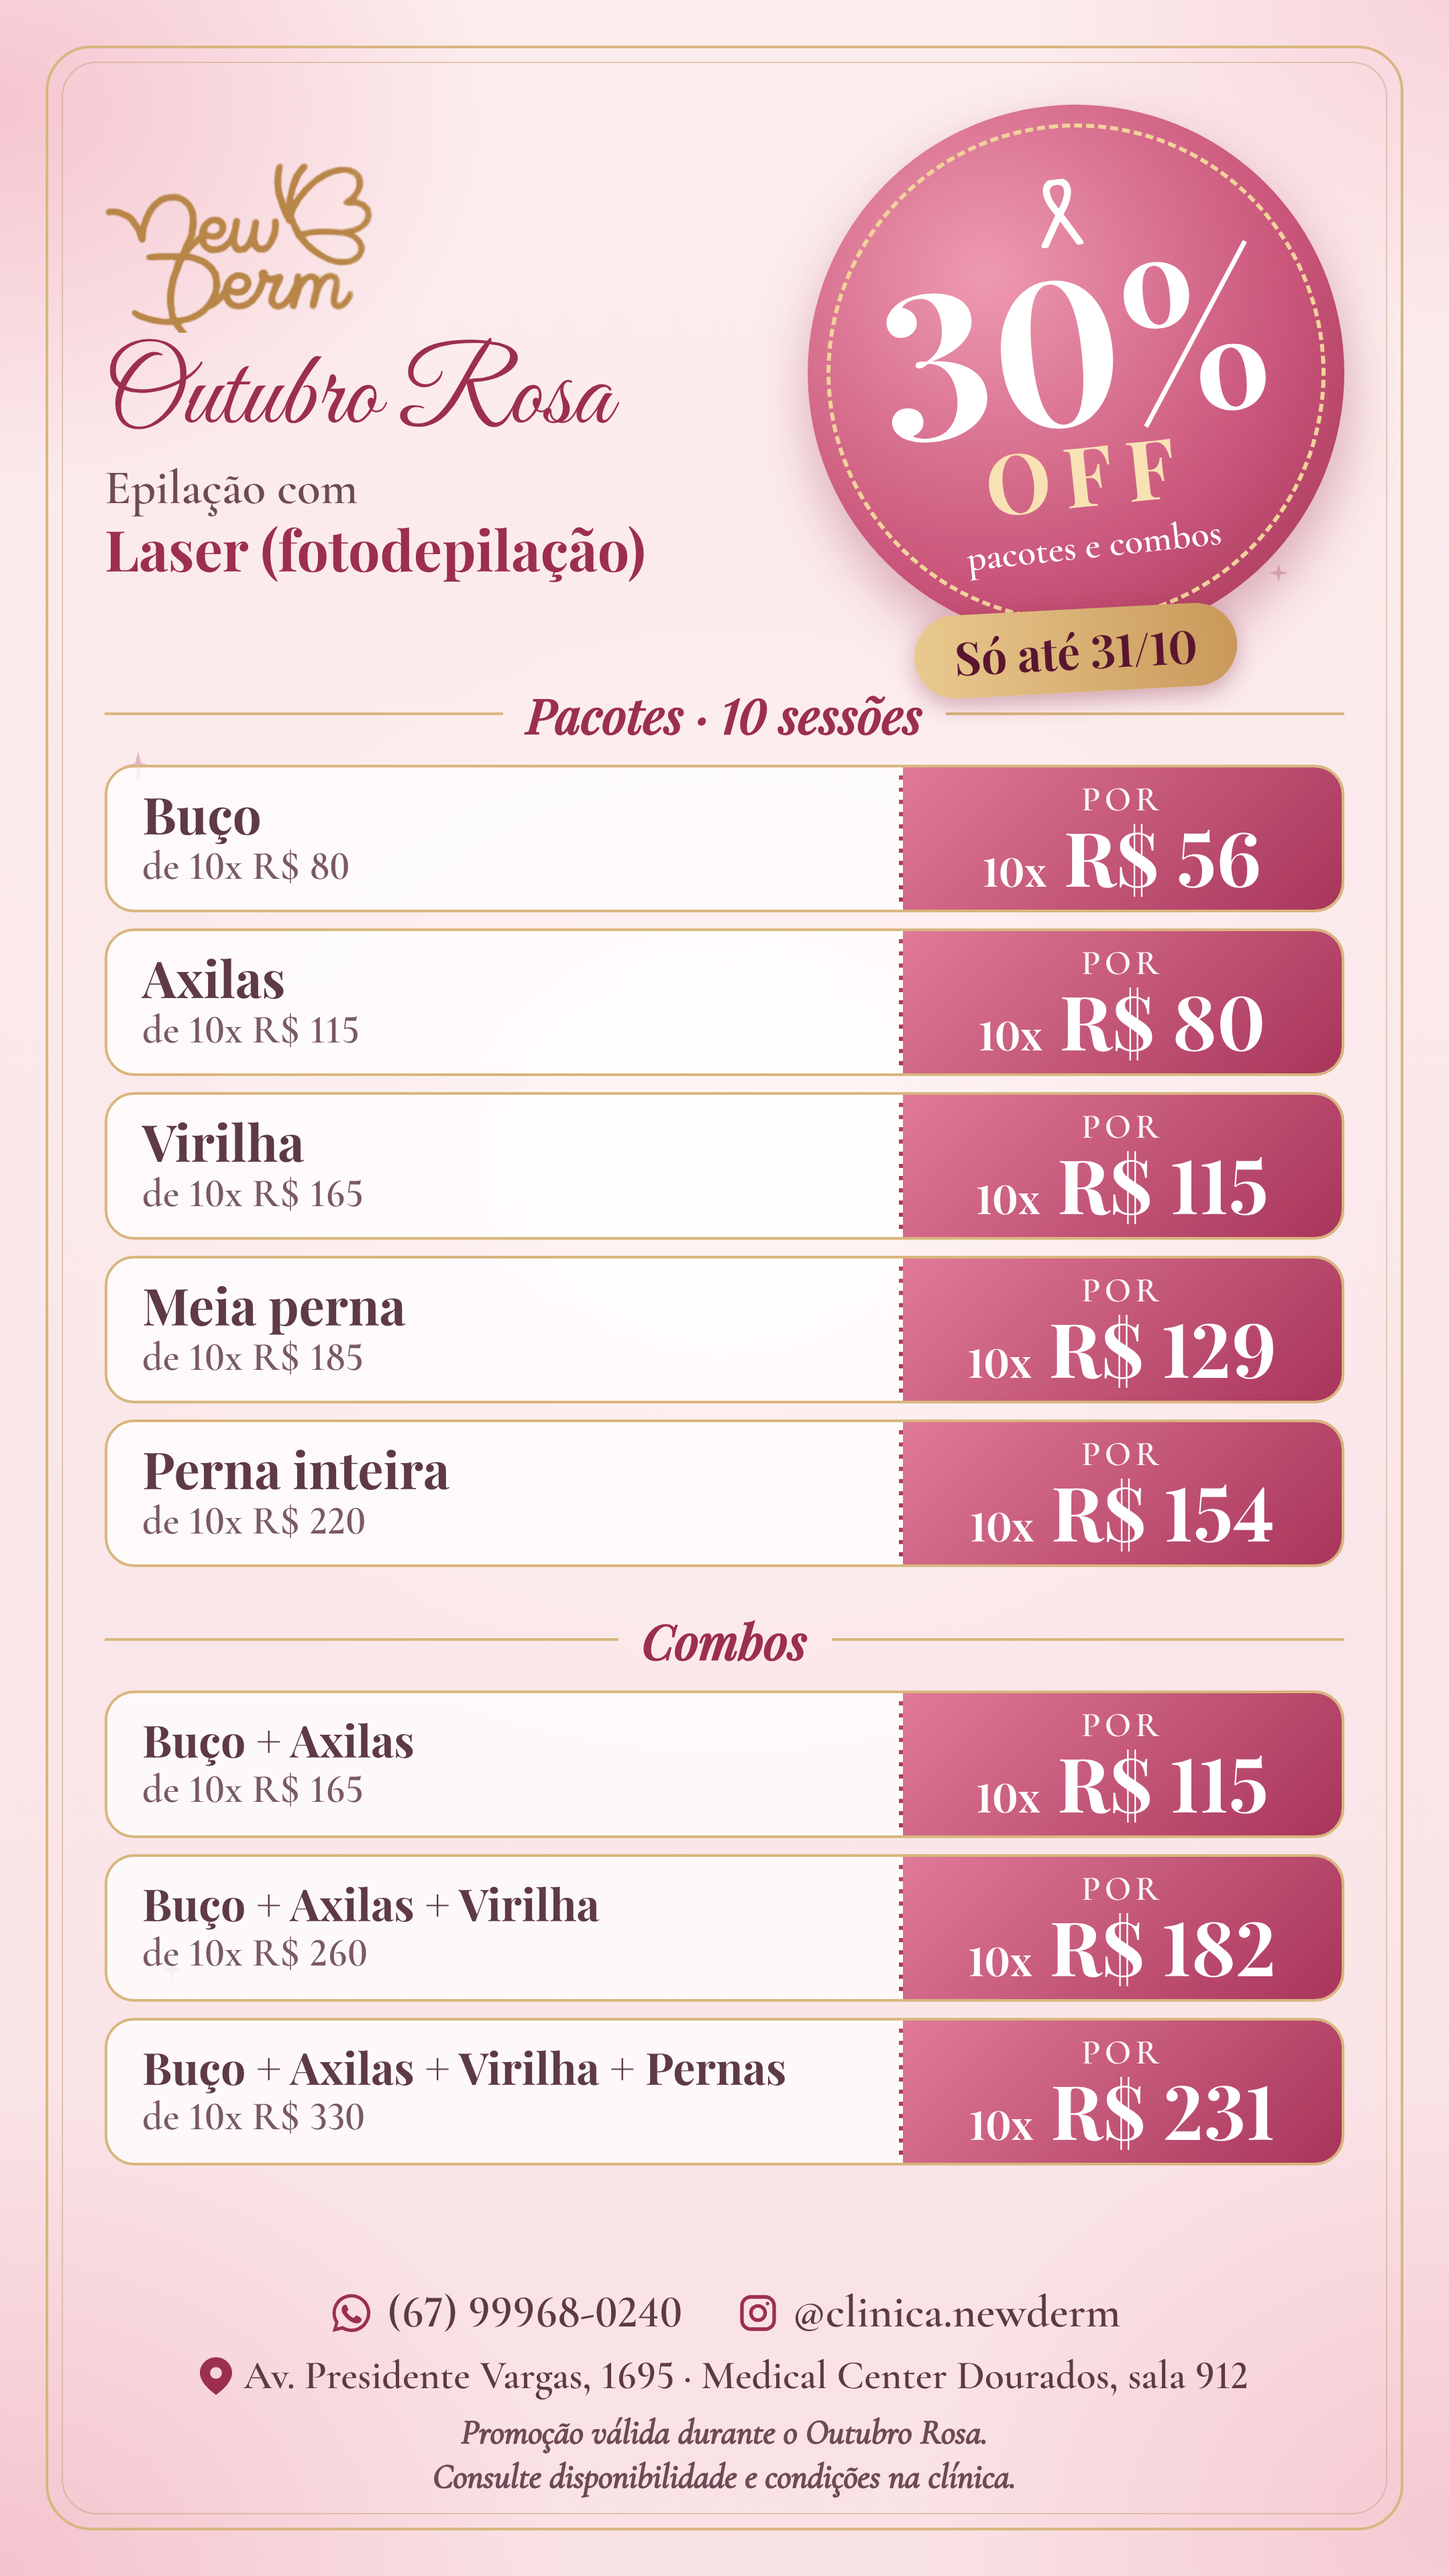
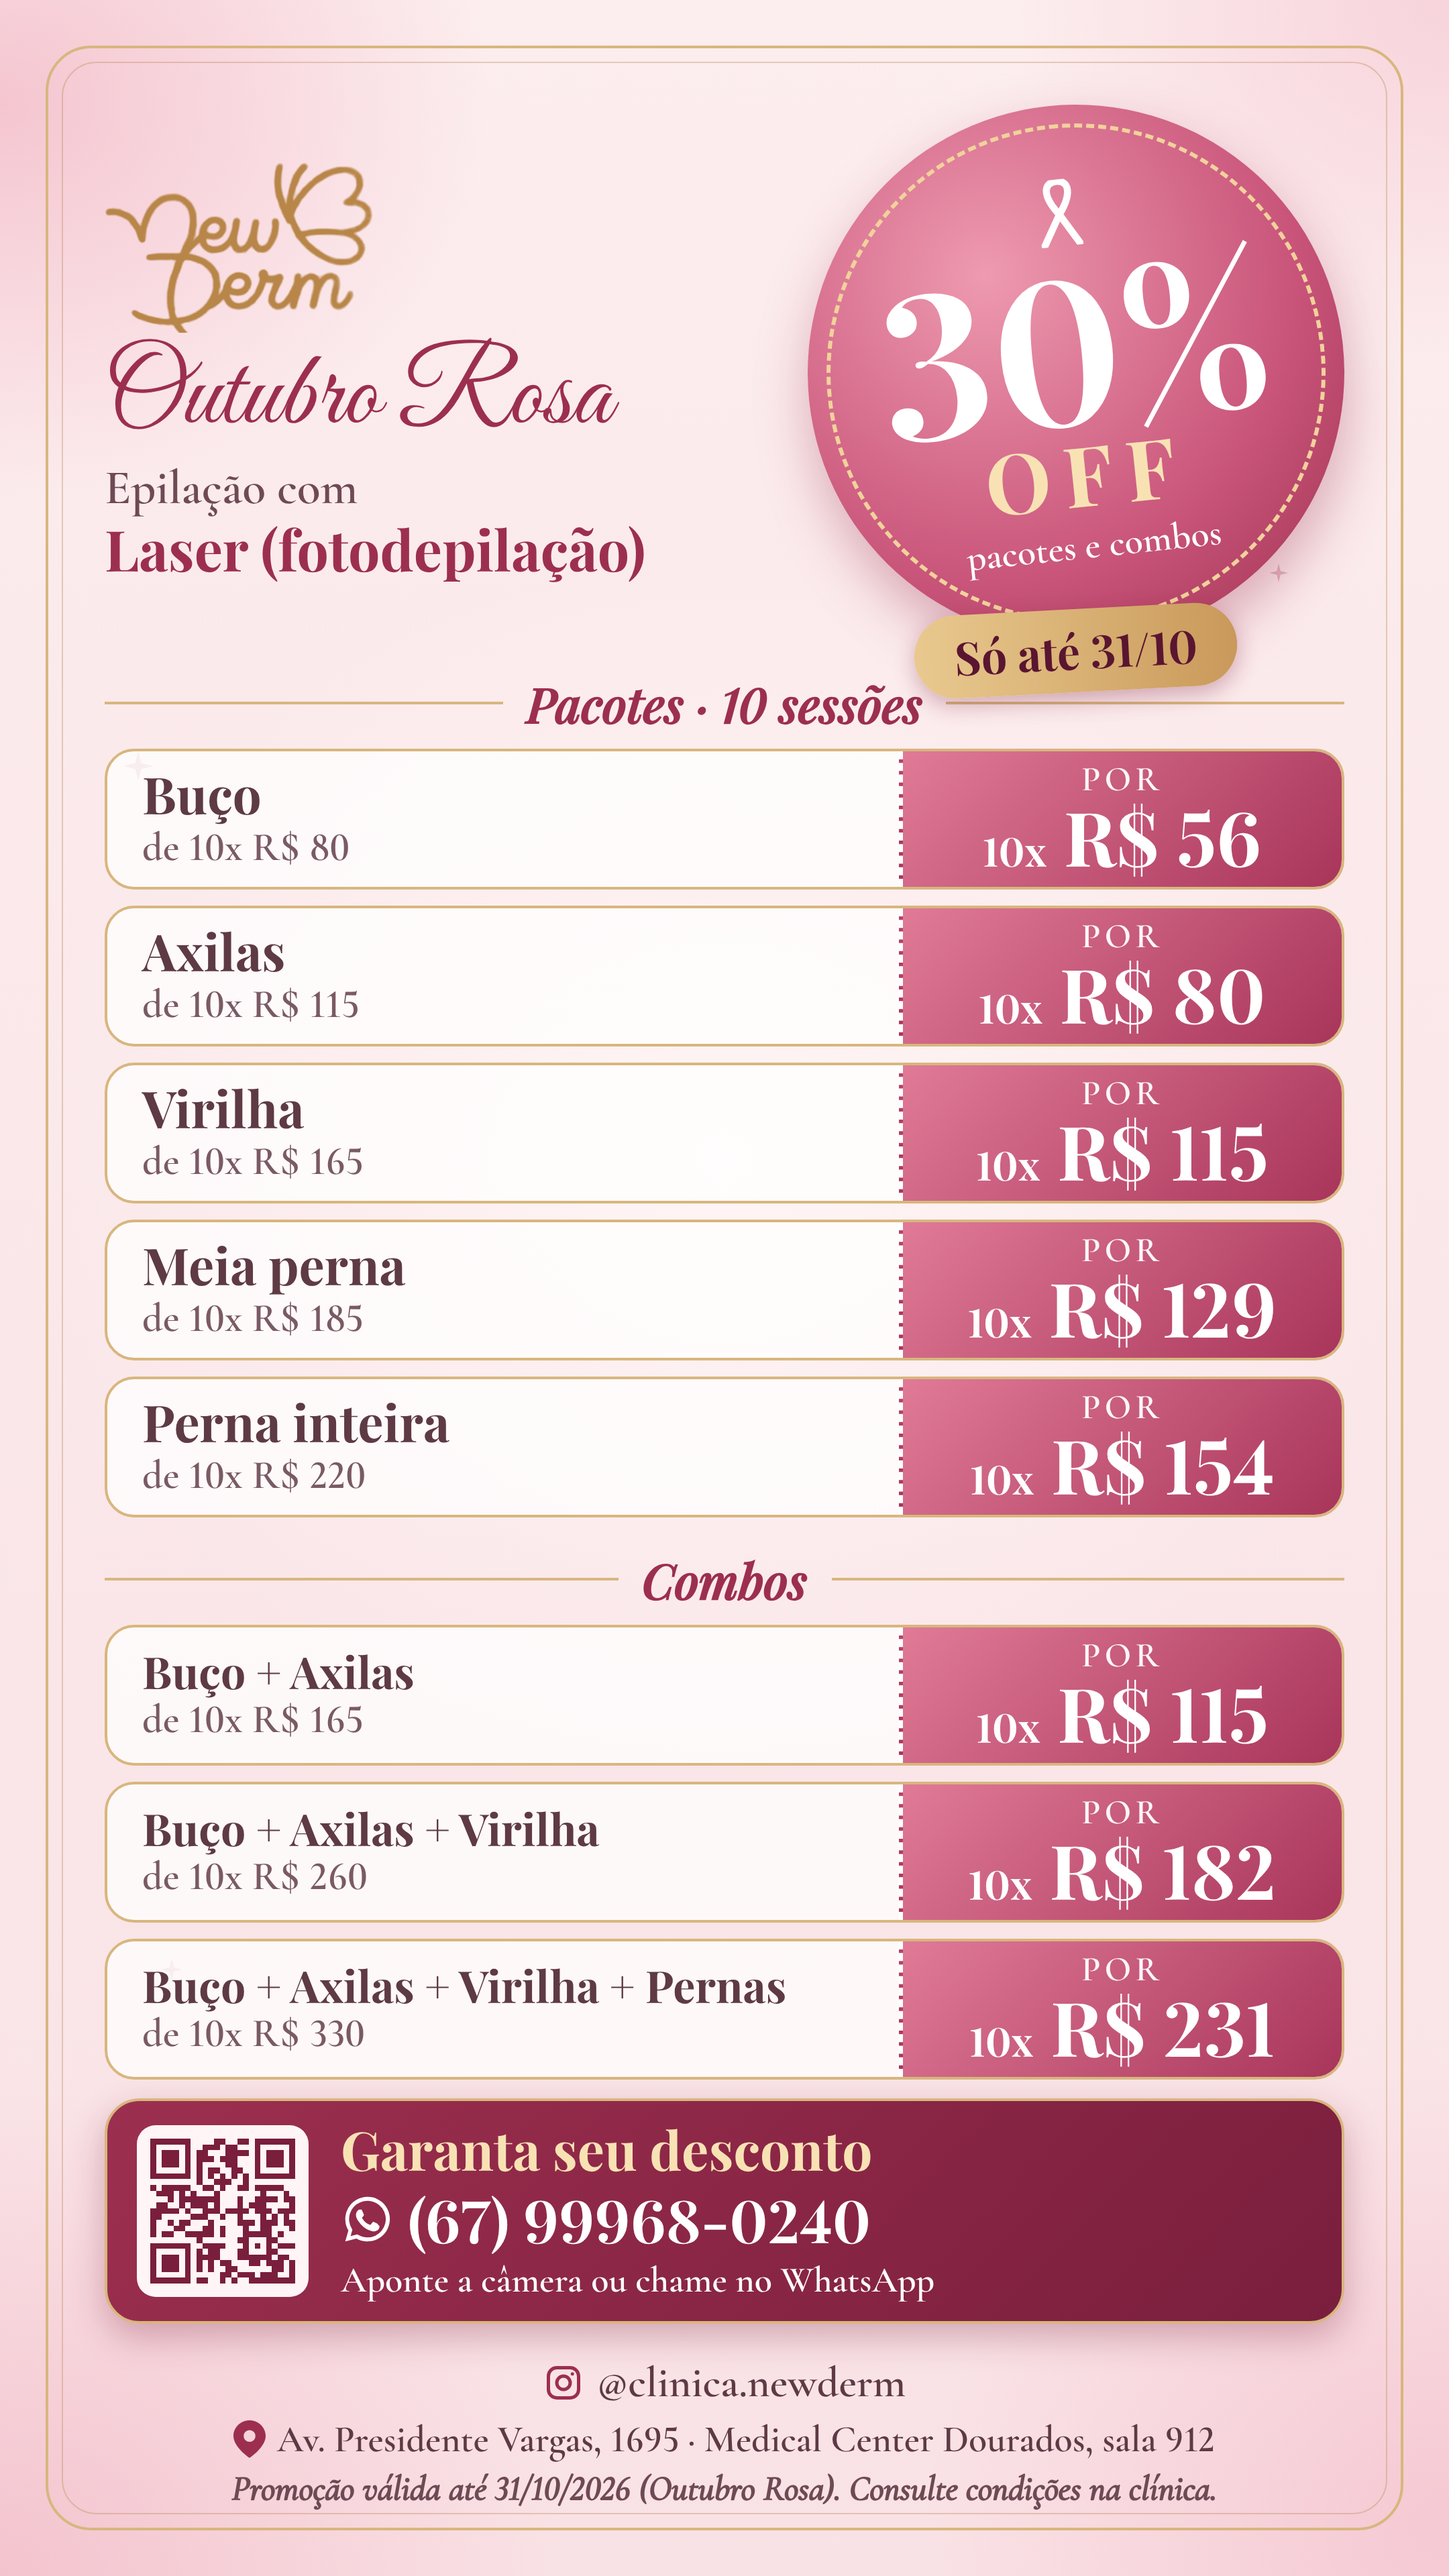
Versão final: adiciona bloco do QR code do WhatsApp e rodapé com validade
Claude-Session: https://claude.ai/code/session_01YCM2u15pHTsNBGbgB1w3ys

Changed region(s): [[0.062, 0.25, 0.9306, 0.9688], [0.4343, 0.5938, 0.5583, 0.6562], [0.3722, 0.25, 0.4653, 0.3125]]

diff --git a/identidade-visual/modelo-tabela/tabela-final-aprovada.html b/identidade-visual/modelo-tabela/tabela-final-aprovada.html
@@ -151,6 +151,22 @@
     background:linear-gradient(90deg,#E9C98F,#C9995A);color:#5A1530;font-family:"Playfair Display";font-weight:700;font-size:34px;box-shadow:0 6px 16px rgba(122,30,61,.3)}
   .to{font-size:30px;color:#7A5A64}
   .chead{margin-bottom:14px} .tk{height:110px;margin-bottom:12px}
+  .ft{position:absolute;left:60px;right:60px;bottom:52px;text-align:center;color:#5E3A45}
+  .ftc{display:flex;justify-content:center;gap:40px;font-size:32px;font-weight:700}
+  .ftc span{display:flex;align-items:center;gap:10px}
+  .fta{display:flex;justify-content:center;align-items:center;gap:8px;font-size:28px;font-weight:600;margin-top:6px}
+  .ftn{font-size:26px;font-weight:600;font-style:italic;margin-top:4px;color:#6E4A55}
+  .ctab{display:flex;align-items:center;gap:24px;margin-top:16px;padding:14px 22px;border-radius:26px;background:linear-gradient(135deg,#9C2F4F,#7A1E3D);border:2px solid var(--gold-l);color:#fff;box-shadow:0 10px 26px rgba(122,30,61,.3)}
+  .ctab .qr{width:128px;height:128px;flex:none;background:#FFF5F6;border-radius:14px;padding:10px}
+  .ctab .qr svg{width:100%;height:100%}
+  .c1t{font-family:"Playfair Display";font-weight:700;font-size:40px;line-height:1.1;color:#F8E2B4}
+  .c2t{display:flex;align-items:center;gap:10px;font-family:"Playfair Display";font-weight:700;font-size:44px}
+  .c3t{font-size:27px;font-weight:600}
+  .ft{bottom:50px}
+  .ctab .qr{width:128px;height:128px;flex:none;background:#FFF5F6;border-radius:14px;padding:10px}
+  .ctab .qr svg{width:100%;height:100%}
+  .tk{height:105px;margin-bottom:12px} .lbl{margin:22px 0 10px}
+  .ctab{margin-top:14px}
 </style>
 </head>
 <body>
@@ -231,14 +247,13 @@
   <div class="tk"><div class="tl"><div class="tn">Buço</div><div class="to">de 10x R$ 80</div></div><div class="tr"><div class="tp">por</div><div class="tv"><small>10x</small> R$ 56</div></div></div><div class="tk"><div class="tl"><div class="tn">Axilas</div><div class="to">de 10x R$ 115</div></div><div class="tr"><div class="tp">por</div><div class="tv"><small>10x</small> R$ 80</div></div></div><div class="tk"><div class="tl"><div class="tn">Virilha</div><div class="to">de 10x R$ 165</div></div><div class="tr"><div class="tp">por</div><div class="tv"><small>10x</small> R$ 115</div></div></div><div class="tk"><div class="tl"><div class="tn">Meia perna</div><div class="to">de 10x R$ 185</div></div><div class="tr"><div class="tp">por</div><div class="tv"><small>10x</small> R$ 129</div></div></div><div class="tk"><div class="tl"><div class="tn">Perna inteira</div><div class="to">de 10x R$ 220</div></div><div class="tr"><div class="tp">por</div><div class="tv"><small>10x</small> R$ 154</div></div></div>
   <div class="lbl"><span>Combos</span></div>
   <div class="tk tc"><div class="tl"><div class="tn">Buço + Axilas</div><div class="to">de 10x R$ 165</div></div><div class="tr"><div class="tp">por</div><div class="tv"><small>10x</small> R$ 115</div></div></div><div class="tk tc"><div class="tl"><div class="tn">Buço + Axilas + Virilha</div><div class="to">de 10x R$ 260</div></div><div class="tr"><div class="tp">por</div><div class="tv"><small>10x</small> R$ 182</div></div></div><div class="tk tc"><div class="tl"><div class="tn">Buço + Axilas + Virilha + Pernas</div><div class="to">de 10x R$ 330</div></div><div class="tr"><div class="tp">por</div><div class="tv"><small>10x</small> R$ 231</div></div></div>
+  <div class="ctab"><div class="qr"><svg xmlns="http://www.w3.org/2000/svg" viewBox="0 0 25 25" shape-rendering="crispEdges"><path stroke="#7A1E3D" d="M0 0.5h7m4 0h2m2 0h2m1 0h7M0 1.5h1m5 0h1m2 0h3m1 0h2m3 0h1m5 0h1M0 2.5h1m1 0h3m1 0h1m1 0h2m3 0h4m1 0h1m1 0h3m1 0h1M0 3.5h1m1 0h3m1 0h1m1 0h3m1 0h3m3 0h1m1 0h3m1 0h1M0 4.5h1m1 0h3m1 0h1m1 0h1m4 0h2m3 0h1m1 0h3m1 0h1M0 5.5h1m5 0h1m1 0h1m1 0h2m2 0h2m2 0h1m5 0h1M0 6.5h7m1 0h1m1 0h1m1 0h1m1 0h1m1 0h1m1 0h7M8 7.5h1m2 0h3m2 0h1M0 8.5h1m1 0h5m2 0h2m1 0h1m2 0h2m1 0h5M1 9.5h3m1 0h1m1 0h1m3 0h1m7 0h1m3 0h1M3 10.5h1m1 0h7m3 0h1m2 0h4m1 0h2M1 11.5h2m2 0h1m1 0h3m1 0h1m3 0h1m1 0h3m4 0h1M0 12.5h5m1 0h1m2 0h3m1 0h4m1 0h3m1 0h3M0 13.5h2m5 0h3m2 0h1m2 0h1m3 0h1m1 0h1m1 0h1M0 14.5h1m2 0h1m1 0h2m3 0h1m4 0h3m1 0h3m1 0h2M0 15.5h1m3 0h2m3 0h2m1 0h1m3 0h1m2 0h2m3 0h1M0 16.5h1m1 0h2m2 0h5m1 0h1m3 0h5m1 0h1M8 17.5h1m6 0h2m3 0h2M0 18.5h7m2 0h4m3 0h1m1 0h1m1 0h1m1 0h3M0 19.5h1m5 0h1m1 0h1m1 0h2m3 0h2m3 0h2M0 20.5h1m1 0h3m1 0h1m1 0h4m3 0h6m1 0h2M0 21.5h1m1 0h3m1 0h1m1 0h1m1 0h1m1 0h2m3 0h2m1 0h3m1 0h1M0 22.5h1m1 0h3m1 0h1m1 0h1m1 0h1m2 0h2m6 0h2m1 0h1M0 23.5h1m5 0h1m5 0h2m1 0h3m1 0h3m2 0h1M0 24.5h7m1 0h2m2 0h1m1 0h1m2 0h8"/></svg>
+</div><div class="ctt"><div class="c1t">Garanta seu desconto</div><div class="c2t"><svg width="40" height="40" viewBox="0 0 24 24"><path fill="#fff" d="M12 2a10 10 0 0 0-8.6 15.1L2 22l5-1.3A10 10 0 1 0 12 2Zm0 18.2c-1.5 0-3-.4-4.3-1.2l-.3-.2-3 .8.8-2.9-.2-.3A8.2 8.2 0 1 1 12 20.2Zm4.5-6.1c-.2-.1-1.5-.7-1.7-.8-.2-.1-.4-.1-.6.1l-.8 1c-.1.2-.3.2-.5.1a6.7 6.7 0 0 1-3.3-2.9c-.3-.4.3-.4.7-1.3.1-.2 0-.3 0-.4l-.8-1.8c-.2-.5-.4-.4-.6-.4h-.5c-.2 0-.4.1-.7.3-.2.3-.9.9-.9 2.2s.9 2.5 1.1 2.7c.1.2 1.8 2.8 4.4 3.9 1.6.7 2.3.8 3.1.6.5-.1 1.5-.6 1.7-1.2.2-.6.2-1.1.2-1.2-.1-.1-.3-.2-.5-.3Z"/></svg> (67) 99968-0240</div><div class="c3t">Aponte a câmera ou chame no WhatsApp</div></div></div>
 </div>
-<div class="footer">
-  <div class="contacts">
-    <div><svg width="34" height="34" viewBox="0 0 24 24"><path fill="#9C2F4F" d="M12 2a10 10 0 0 0-8.6 15.1L2 22l5-1.3A10 10 0 1 0 12 2Zm0 18.2c-1.5 0-3-.4-4.3-1.2l-.3-.2-3 .8.8-2.9-.2-.3A8.2 8.2 0 1 1 12 20.2Zm4.5-6.1c-.2-.1-1.5-.7-1.7-.8-.2-.1-.4-.1-.6.1l-.8 1c-.1.2-.3.2-.5.1a6.7 6.7 0 0 1-3.3-2.9c-.3-.4.3-.4.7-1.3.1-.2 0-.3 0-.4l-.8-1.8c-.2-.5-.4-.4-.6-.4h-.5c-.2 0-.4.1-.7.3-.2.3-.9.9-.9 2.2s.9 2.5 1.1 2.7c.1.2 1.8 2.8 4.4 3.9 1.6.7 2.3.8 3.1.6.5-.1 1.5-.6 1.7-1.2.2-.6.2-1.1.2-1.2-.1-.1-.3-.2-.5-.3Z"/></svg>(67) 99968-0240</div>
-    <div><svg width="32" height="32" viewBox="0 0 24 24" fill="none" stroke="#9C2F4F" stroke-width="2"><rect x="3" y="3" width="18" height="18" rx="5"/><circle cx="12" cy="12" r="4"/><circle cx="17.3" cy="6.7" r="1" fill="#9C2F4F" stroke="none"/></svg>@clinica.newderm</div>
-  </div>
-  <div class="addr"><svg width="24" height="28" viewBox="0 0 24 28"><path fill="#9C2F4F" d="M12 0C5.4 0 0 5.2 0 11.6 0 20 12 28 12 28s12-8 12-16.4C24 5.2 18.6 0 12 0Zm0 16a4.4 4.4 0 1 1 0-8.8 4.4 4.4 0 0 1 0 8.8Z"/></svg>Av. Presidente Vargas, 1695 · Medical Center Dourados, sala 912</div>
-  <div class="note">Promoção válida durante o Outubro Rosa.<br>Consulte disponibilidade e condições na clínica.</div>
+
+<div class="ft">
+  <div class="ftc"><span><svg width="30" height="30" viewBox="0 0 24 24" fill="none" stroke="#9C2F4F" stroke-width="2"><rect x="3" y="3" width="18" height="18" rx="5"/><circle cx="12" cy="12" r="4"/><circle cx="17.3" cy="6.7" r="1" fill="#9C2F4F" stroke="none"/></svg>@clinica.newderm</span></div>
+  <div class="fta"><svg width="24" height="28" viewBox="0 0 24 28"><path fill="#9C2F4F" d="M12 0C5.4 0 0 5.2 0 11.6 0 20 12 28 12 28s12-8 12-16.4C24 5.2 18.6 0 12 0Zm0 16a4.4 4.4 0 1 1 0-8.8 4.4 4.4 0 0 1 0 8.8Z"/></svg>Av. Presidente Vargas, 1695 · Medical Center Dourados, sala 912</div>
+  <div class="ftn">Promoção válida até 31/10/2026 (Outubro Rosa). Consulte condições na clínica.</div>
 </div>
-</body>
-</html>
+</body></html>
